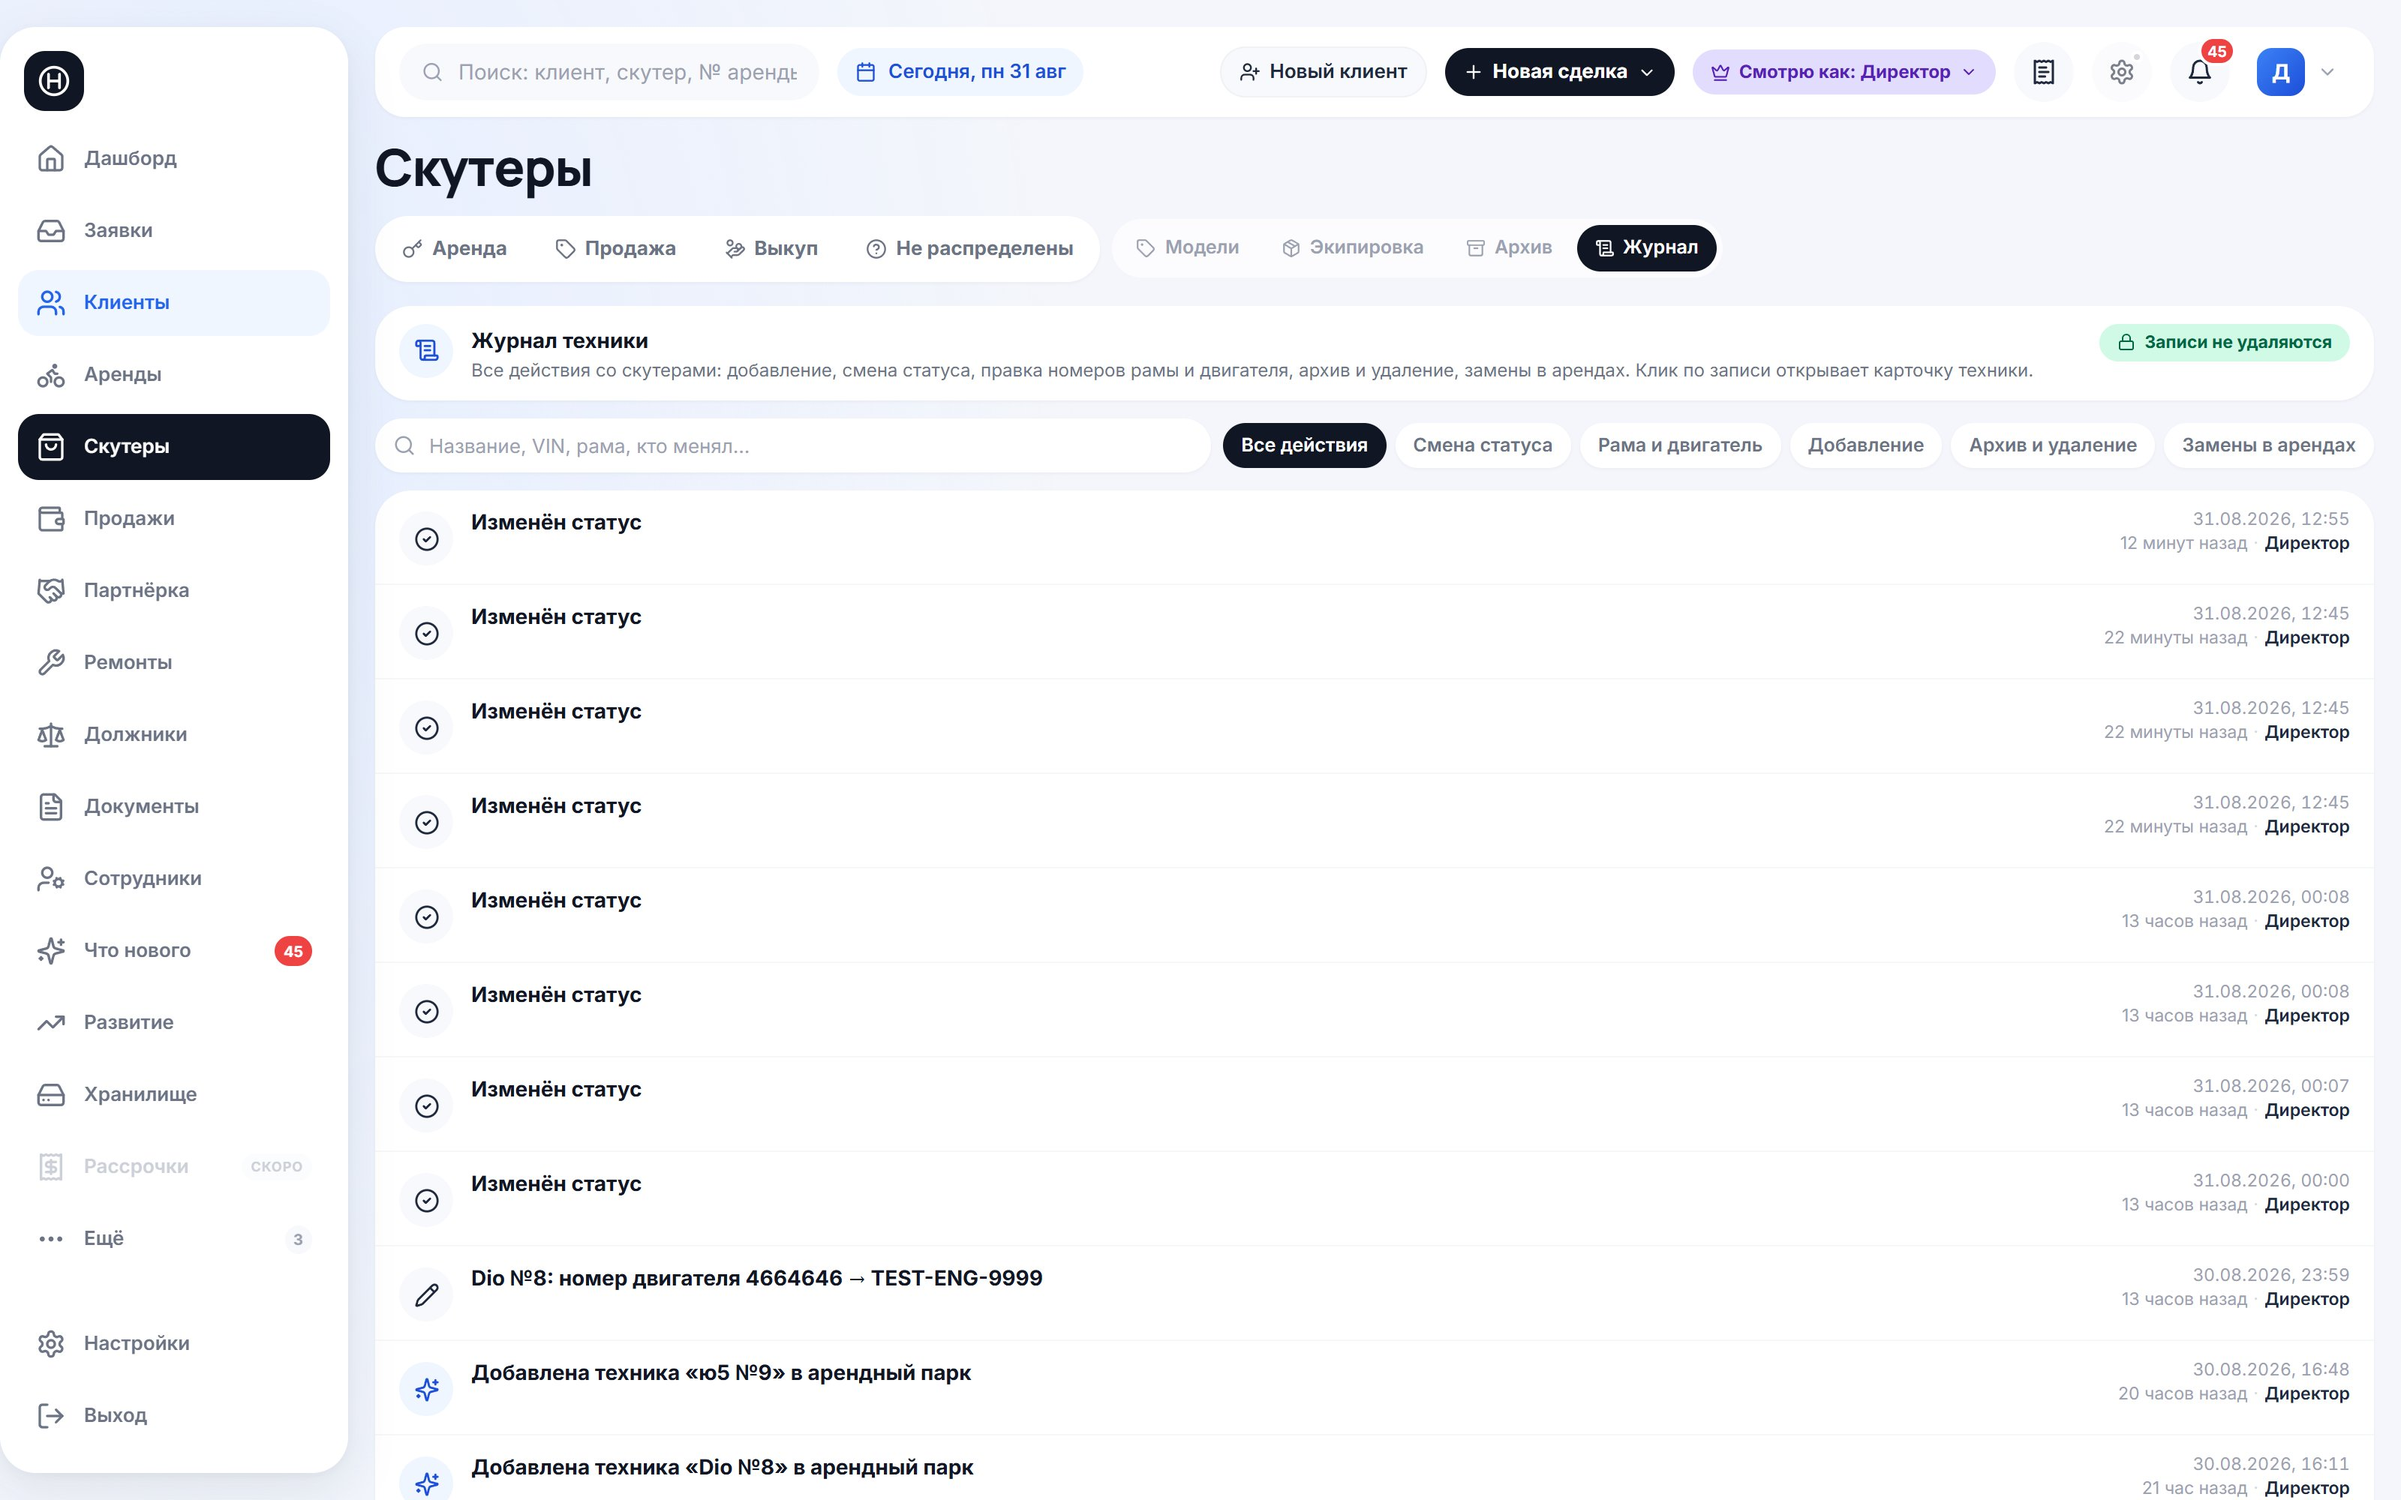
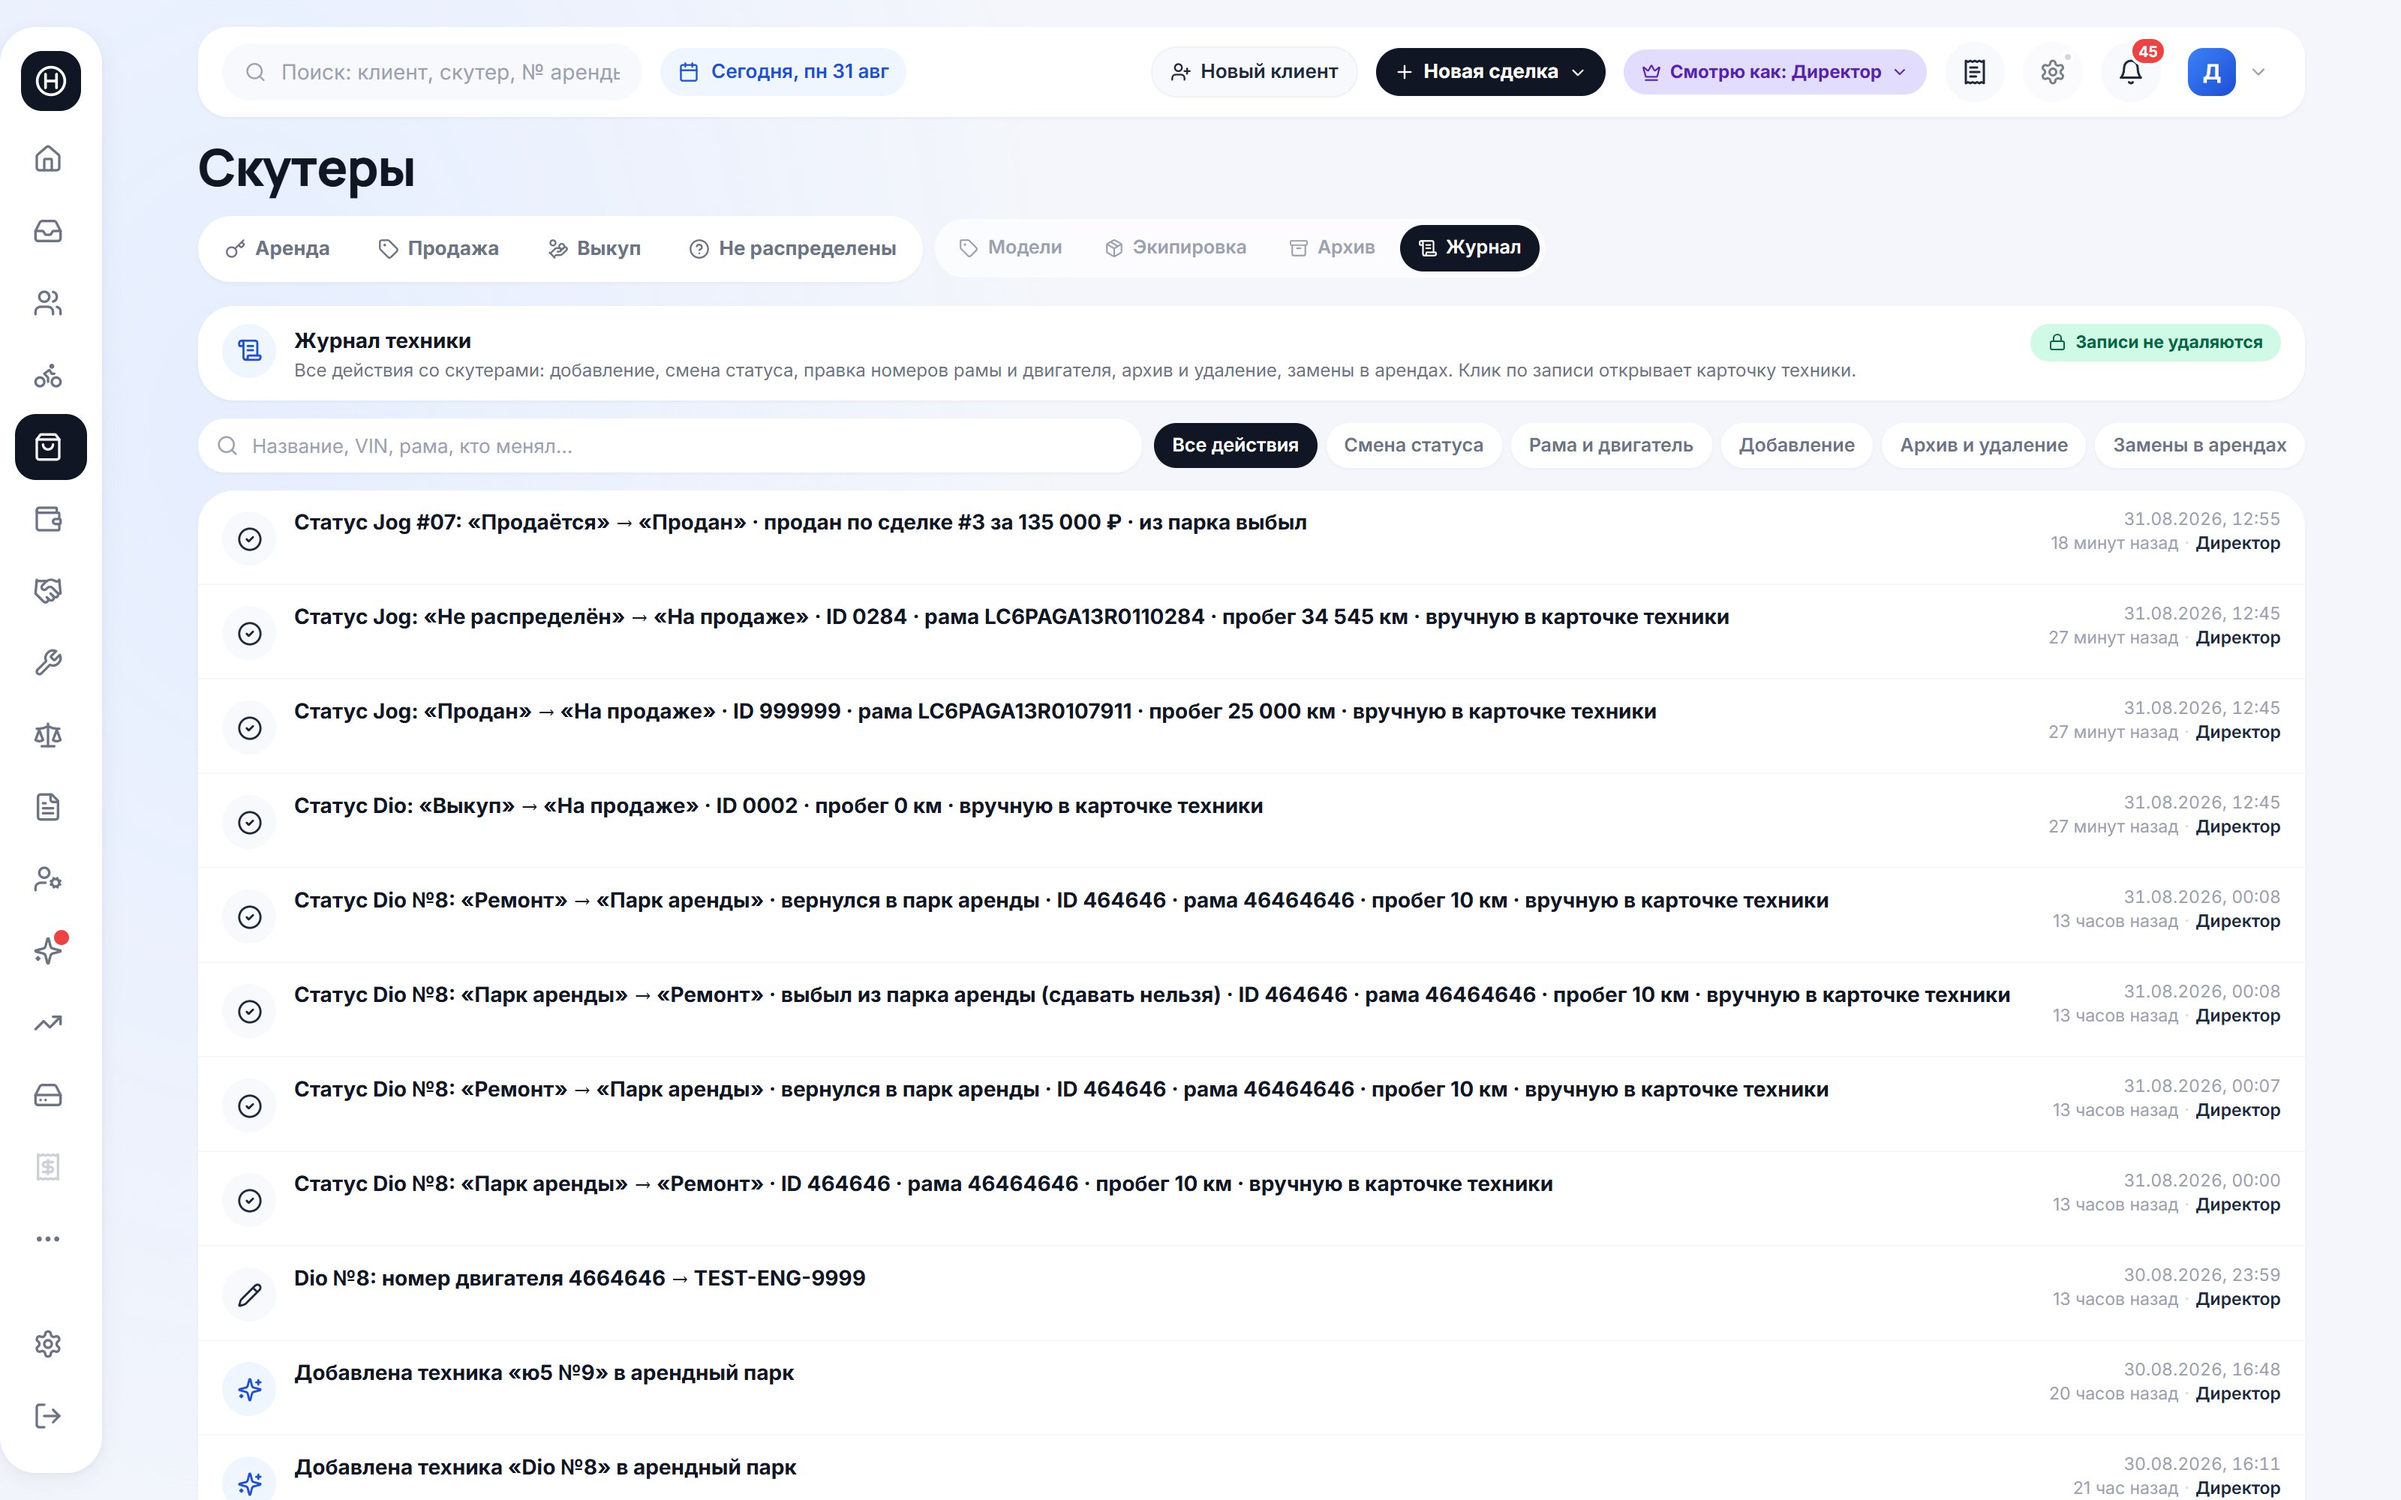
fix(продажи): имя техники без решётки — модель + арендный номер
«Jog #07» в интерфейсе запрещён: журнал продажи и снимок в сделке
берут имя тем же хелпером, что и остальная CRM.

diff --git a/apps/api/src/routes/sales.ts b/apps/api/src/routes/sales.ts
@@ -14,6 +14,7 @@ import {
 } from "../db/schema.js";
 import { logActivity } from "../services/activityLog.js";
 import { requireRole } from "../auth/plugin.js";
+import { scooterLabel } from "./scooters.js";
 import { makeFileKey, removeObject } from "../storage/index.js";
 import { putObjectWithImageVariants } from "../storage/image.js";
 
@@ -398,7 +399,7 @@ export async function salesRoutes(app: FastifyInstance) {
           entity: "scooter",
           entityId: deal.scooterId,
           action: "status_changed",
-          summary: `Статус ${sc.name}: «Продаётся» → «Продан» · продан по сделке #${id} за ${fmtMoney(row!.price)} ₽ · из парка выбыл`,
+          summary: `Статус ${scooterLabel(sc.name, sc.rentalSlot)}: «Продаётся» → «Продан» · продан по сделке #${id} за ${fmtMoney(row!.price)} ₽ · техника выбыла из оборота`,
           meta: { statusFrom: sc.baseStatus, statusTo: "sold", dealId: id },
         });
       }
@@ -672,7 +673,7 @@ async function buildDealValues(
               .from(scooterModels)
               .where(eq(scooterModels.id, sc.modelId))
           : [];
-        values.scooterName = sc.name;
+        values.scooterName = scooterLabel(sc.name, sc.rentalSlot);
         values.modelName = model?.name ?? null;
         values.vin = sc.vin;
         values.engineNo = sc.engineNo;

diff --git a/apps/api/src/routes/scooters.ts b/apps/api/src/routes/scooters.ts
@@ -65,7 +65,7 @@ const directorOnly = requireRole("director");
  * Правка заказчика 24.08: формата «Jog #03» в CRM быть не должно —
  * номер заведения оператору ничего не говорит, значим арендный номер.
  */
-function scooterLabel(name: string, slot?: number | null): string {
+export function scooterLabel(name: string, slot?: number | null): string {
   const model = name.replace(/\s*#\s*\d+\s*$/, "").trim() || name;
   return slot != null ? `${model} №${slot}` : model;
 }
